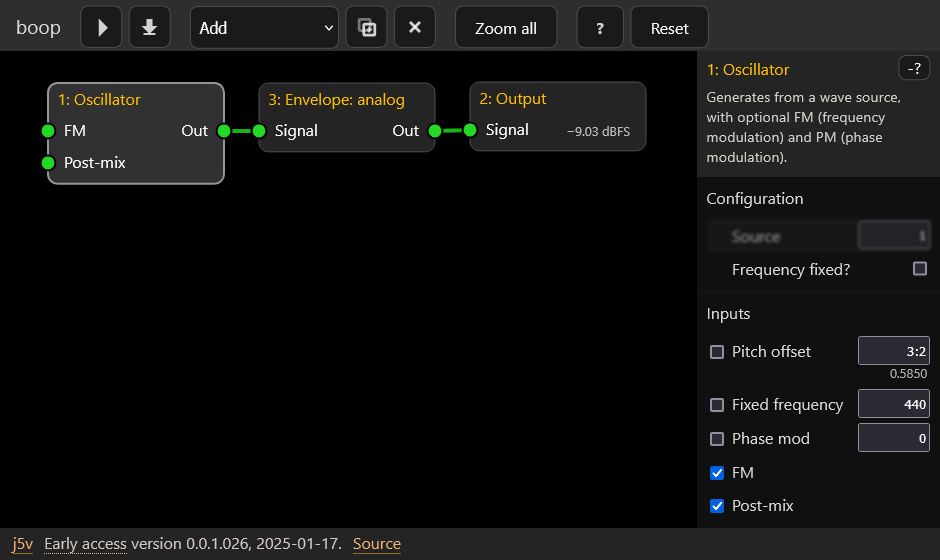
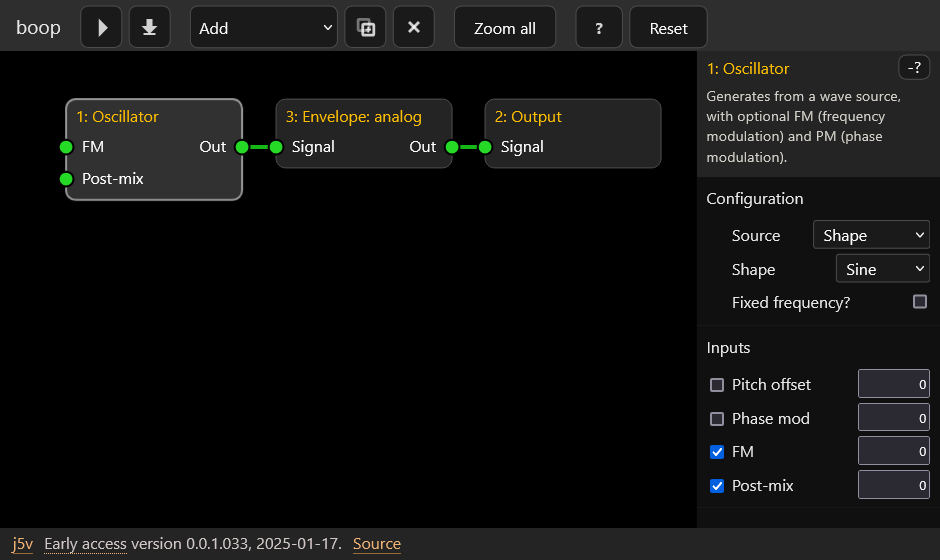
Update example screenshot
Also uptick version.

diff --git a/src/lib/appInfo.js b/src/lib/appInfo.js
@@ -1,6 +1,6 @@
 const appInfo = {
   appName: 'boop',
-  appVersion: '0.0.1.032',
+  appVersion: '0.0.1.033',
   appDate: '2025-01-17',
   saveVersion: '0.0.2',
   specialVersionName: 'Early access',
